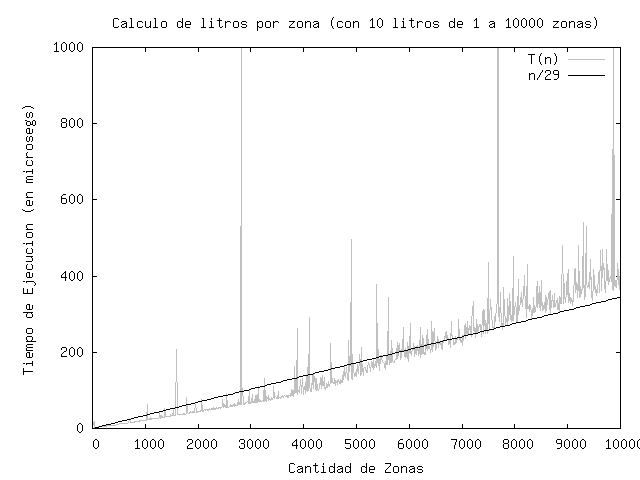
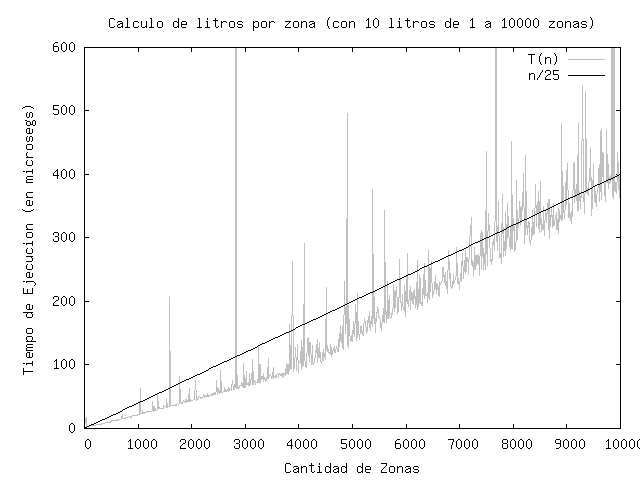
Informe: Analisis de resultados casi casi listo.

diff --git a/trunk/Algo3-TP2/tp2.tex b/trunk/Algo3-TP2/tp2.tex
@@ -187,7 +187,7 @@ Con el fin de analizar la complejidad de los algoritmos propuestos (fumigación 
 
 A continuación se describirán las características de las instancias utilizadas para las pruebas así como las particularidades de cada experimento. Dichas cuestiones son comunes al analisis de ambos algoritmos por lo que no haremos referencia a ninguno en particular. Más adelante analizaremos resultados de estos experimentos aplicado a cada uno de los algoritmos.
 
-Para las instancias de prueba se utilizó la función \textit{random} del lenguaje para generar matrices de \textit{mosquitosMuertos}) de tamaño $zonas*litros$ con valores aleatorios comprendidos entre $1$ y $10000$ con el fin de garantizar que las pruebas resulten lo suficientemente genéricas como para poder obtener resultados ``interesantes''.
+Para las instancias de prueba se utilizó la función \textit{random} del lenguaje para generar matrices de \textit{mosquitosMuertos}) de tamaño $zonas*litros$ con valores aleatorios comprendidos entre $1$ y $10000$ con el fin de garantizar que las pruebas resulten lo suficientemente genéricas como para poder obtener resultados ``interesantes''. Cabe mencionar que no se harán estudios sobre instancias particulares ya que, como se mencionó antes, el costo de ejecución del algoritmo de \textit{fumigación} no depende de los valores de la matriz de entrada que conforma cada instancia.
 
 En primer lugar, se hicieron cálculos utilizando como variable la cantidad de zonas a fumigar, fijando en $10$ los litros disponibles. El rango de zonas analizados es desde $1$ hasta $10000$ zonas, de a intervalos de tamaño $10$. La elección de estos valores fue producto del análisis de 2 cuestiones importantes: que números permitirían tomar muestras utiles para la realización de los gráficos y cual era la máxima cantidad de datos que nuestra aplicación podría manejar, acotada por el tiempo disponible para realizar las pruebas y las limitacion propias de la máquina en cuestión. Empiricamente, se comprobó que dicho rango de zonas permitía correr la aplicación en un tiempo razonable y al mismo tiempo proveer datos interesantes para el análisis en cuestión. Del mismo modo, fijar en 10 los litros aseguró que sea la cantidad de zonas el parámetro ponderante en el cálculo de tiempo de ejecución.
 
@@ -202,31 +202,71 @@ A continuación se presentarán los gráficos realizados para cada algoritmo uti
 Como se vió anteriormente, la primer parte del problema consistía en calcular la máxima cantidad de mosquitos muertos para una instancia determinada. Los siguientes gráficos muestran el comportamiento de este algoritmo en base a los dos parámetros de entrada de manera independiente:
 
 \begin{center}
- \includegraphics[width=0.7\textwidth]{Plots/Tp2Ej1-TiemposFumigacionPorLitros-10zonas-bw.png}
+ \includegraphics[width=0.7\textwidth]{Plots/Tp2Ej1-TiemposFumigacionPorZonas-10litros-bw.png}
 \begin{center}
 Figura 1.1
 \end{center}
-\includegraphics[width=0.7\textwidth]{Plots/Tp2Ej1-TiemposFumigacionPorZonas-10litros-bw.png}
+ \includegraphics[width=0.7\textwidth]{Plots/Tp2Ej1-TiemposFumigacionPorLitros-10zonas-bw.png}
 \begin{center}
 Figura 1.2
 \end{center}
 \end{center}
 
-Ambos gráficos permiten observar algunas cuestiones interesantes. La Figura 1.1 muestra como la función T(n) que representa el tiempo de ejecución se comporta prácticamente igual que la función $f(n) = n^2/19 \in O(n^2)$. Este hecho demuestra empíricamente que la complejidad con respecto a la cantidad de litros es cuadrática al realizar la fumigación tal como se había analizado anteriormente. Del mismo modo, la Figura 1.2 el
+Ambos gráficos permiten observar algunas cuestiones interesantes. La Figura 1.1 permite observar como el comportamiento del algoritmo de \textit{fumigación} con respecto a la cantidad de zonas se asimila a una función lineal, hecho que se corresponde con la complejidad calculada anteriormente. Del mismo modo, la Figura 1.2 muestra como la función T(n) que representa el tiempo de ejecución se comporta prácticamente igual que la función $f(n) = n^2/19 \in O(n^2)$. Este hecho demuestra empíricamente que la complejidad con respecto a la cantidad de litros es cuadrática al realizar la fumigación tal como se había analizado anteriormente.
 
-%TODO
+Otras cuestión observable son los ``picos'' y variaciones abrutas en ambos gráficos. En principio, esto no debería ocurrir ya que la complejidad no depende de la forma de la entrada como se mencionó anteriormente. El motivo de esto radica simplemente en los errores de precisión en la medición de las operaciones propios de las limitaciones de la máquina de cómputo utilizada. Los tiempos de ejecución del algoritmo son mucho mayores en la Figura 1.2 lo que resulta en una mayor estabilidad en los cálculo de tiempo, en contraste con la Figura 1.1 donde hay mayor impresición porque dicho gráfico refleja cambios de valores más abrutos.
+
+\begin{center}
+ \includegraphics[width=0.7\textwidth]{Plots/Tp2Ej1-TiemposFumigacion-3d-bw.png}
+\begin{center}
+Figura 1.3
+\end{center}
+\end{center}
+
+Esta última figura permite ver como el algoritmo en su totalidad realmente se comporta de la forma esperada. 
+Para esto basta comparar los tiempos de ejecución al variar ambos parámetros (litros y zonas) junto con la función $f(n,m) = n*m^2/200 \in O(n*m^2)$ viendo que ambas ``mantas'' coiniciden. Este ultimo hecho constituye la última prueba de que empirícamente el algoritmo funciona tal como se esperaba.
 
 \subsection*{Cálculo de Litros Por Zona}
 
-%TODO
+En esta sección analizaremos el comportamiento del otro algortimo propuesto que se encarga de dar parte de la solución del problema: el algoritmo encargado de calcular los litros a utilizar por cada zona. Los siguientes gráficos muestran el comportamiento del mismo en base a las dos variables en cuestión de forma independiente:
+
+\begin{center}
+ \includegraphics[width=0.7\textwidth]{Plots/Tp2Ej1-TiemposLitrosPorZonaPorZonas-10litros-bw.png}
+\begin{center}
+Figura 2.1
+\end{center}
+ \includegraphics[width=0.7\textwidth]{Plots/Tp2Ej1-TiemposLitrosPorZonaPorZonas-10zonas-bw.png}
+\begin{center}
+Figura 2.2
+\end{center}
+\end{center}
+
+Como se puede observar, en ambos casos, el comportamiento del algoritmo es el esperado. La Figura 2.1 muestra como el cálculo de litros por zona se ``corresponde'' con el gráfico de la función lineal $f(n) = n/25$ al variar la cantidad de zonas y fijar los litros en $10$. Asímismo, la Figura 2.2 se comporta de la forma $f(n) = n/75$ al variar los litros y fijar las zonas. Esto comprueba la linealidad en complejidad teórica analizada previamente para ambas variables. Un punto interesante a observar es que las constantes que acompañan a estas funciones difieren, siendo la constante relacionada al primer gráfico ($1/25$) 3 veces mayor que la otra ($1/75$). Al tratarse de instancias de igual tamaño (en ambos casos, matrices desde $1*10$ hasta $10000*10$), se puede concluir que la \textit{performance} de este algoritmo depende en mayor medida de la cantidad de zonas que de la cantidad de litros. En otras palabras, para instancias de igual tamaño, un caso demora 3 veces más el otro. \textbf{POR QUE?}
+
+Con respecto a la irregularidad del gráfico, cabe notar que, a diferencia del algoritmo anterior, este algoritmo no realiza siempre la misma cantidad de operaciones para instancias de igual tamaño tal como se vió en la sección de análisis de complejidad, ya que el recorrido inverso de la matriz resultante depende justamente de los valores que esta contenga que dependen a su vez de los valores de la matriz de entrada \textit{mosquitosMuertos} (ver sección \textit{Algoritmo}). Por este motivo, debido a que se trata de instancias aleatorias, es esperable que no se obtenga un comportamiento ``tan'' similar a la función lineal propuesta como ocurre para el primer algoritmo.
+
+Por último, al igual que para el algoritmo anterior, se presenta el siguiente gráfico de 3 dimensiones:
+
+\begin{center}
+ \includegraphics[width=0.7\textwidth]{Plots/Tp2Ej1-TiemposLitrosPorZona-3d-bw.png}
+\begin{center}
+Figura 1.3
+\end{center}
+\end{center}
+
+Al igual que antes, este gráfico permite ver la complejidad de ambos parámetros en conjunto. \textbf{TODO}
 
 \section*{Conclusiones}
 
-Este ejercicio nos mostr\'o un caso representativo en el que el tiempo de ejecuci\'on difiere notablemente a la complejidad calculada para el peor caso.
+%TODO: Decir que se podria haber analizado los algoritmos recursivos que repiten operaciones vs la programacion dinamica pero no hubo tiempo.
 
-Para este algoritmo en particular se debe a que la funci\'on \textit{encontrarPrimos} alcanzar\'ia dicho peor caso si la conjetura de Goldbach fuese falsa, cuesti\'on que no sucede para ning\'un n\'umero que pueda tomar la func\'on (es decir, hasta el n\'umero mas grande almacenable en un \textit{int}). M\'as aun, esta demostrado que para n\'umeros mucho mas grandes que los testeados la conjetura se sigue cumpliendo (ver secci\'on Referencias para m\'as detalles) por lo que en el \'ambito cient\'ifico se cree que es cierta.
+% Este ejercicio nos mostr\'o un caso representativo en el que el tiempo de ejecuci\'on difiere notablemente a la complejidad calculada para el peor caso.
+% 
+% Para este algoritmo en particular se debe a que la funci\'on \textit{encontrarPrimos} alcanzar\'ia dicho peor caso si la conjetura de Goldbach fuese falsa, cuesti\'on que no sucede para ning\'un n\'umero que pueda tomar la func\'on (es decir, hasta el n\'umero mas grande almacenable en un \textit{int}). M\'as aun, esta demostrado que para n\'umeros mucho mas grandes que los testeados la conjetura se sigue cumpliendo (ver secci\'on Referencias para m\'as detalles) por lo que en el \'ambito cient\'ifico se cree que es cierta.
+% 
+% Tambi\'en vimos casos en los que entre n\'umeros cercanos tomados por la funci\'on, el tiempo de ejecuci\'on difiere considerablemente. Adem\'as notamos que a medida que el tama\~{n}o del par\'ametro de entrada crece el tiempo tamb\'ien lo hace, pero siempre muy lejos de los peores casos para dichas entradas. Estas situaciones se deben a la desconocida distribuci\'on de los n\'umeros primos entre los naturales, por lo que no podemos dar una explicaci\'on general que incluya todos los casos reales. Sin embargo, en base a todos los an\'alisis realizados, podemos concluir que para todos los casos computables por nuestro algoritmo el tiempo de ejecuci\'on ser\'a mas que aceptable.
 
-Tambi\'en vimos casos en los que entre n\'umeros cercanos tomados por la funci\'on, el tiempo de ejecuci\'on difiere considerablemente. Adem\'as notamos que a medida que el tama\~{n}o del par\'ametro de entrada crece el tiempo tamb\'ien lo hace, pero siempre muy lejos de los peores casos para dichas entradas. Estas situaciones se deben a la desconocida distribuci\'on de los n\'umeros primos entre los naturales, por lo que no podemos dar una explicaci\'on general que incluya todos los casos reales. Sin embargo, en base a todos los an\'alisis realizados, podemos concluir que para todos los casos computables por nuestro algoritmo el tiempo de ejecuci\'on ser\'a mas que aceptable.
+TODO
 
 \bigskip
 
